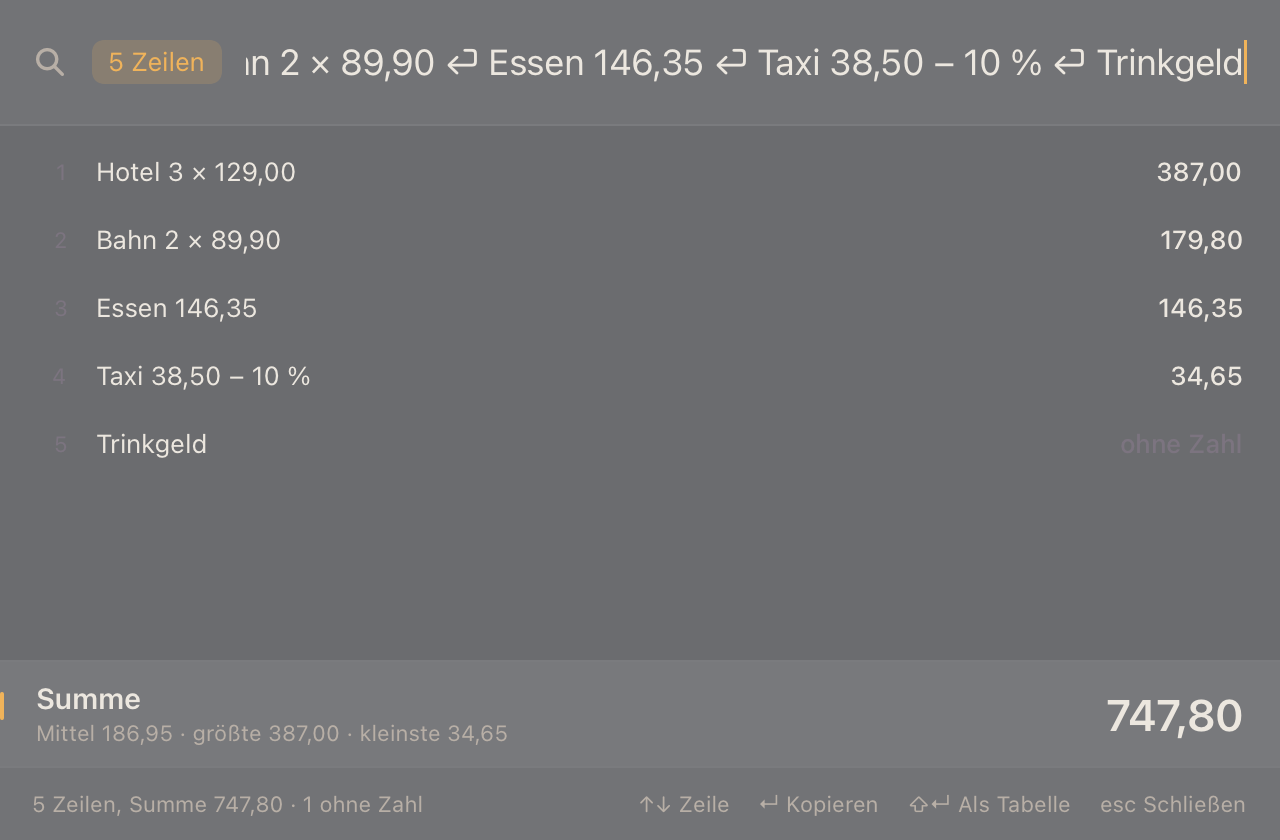
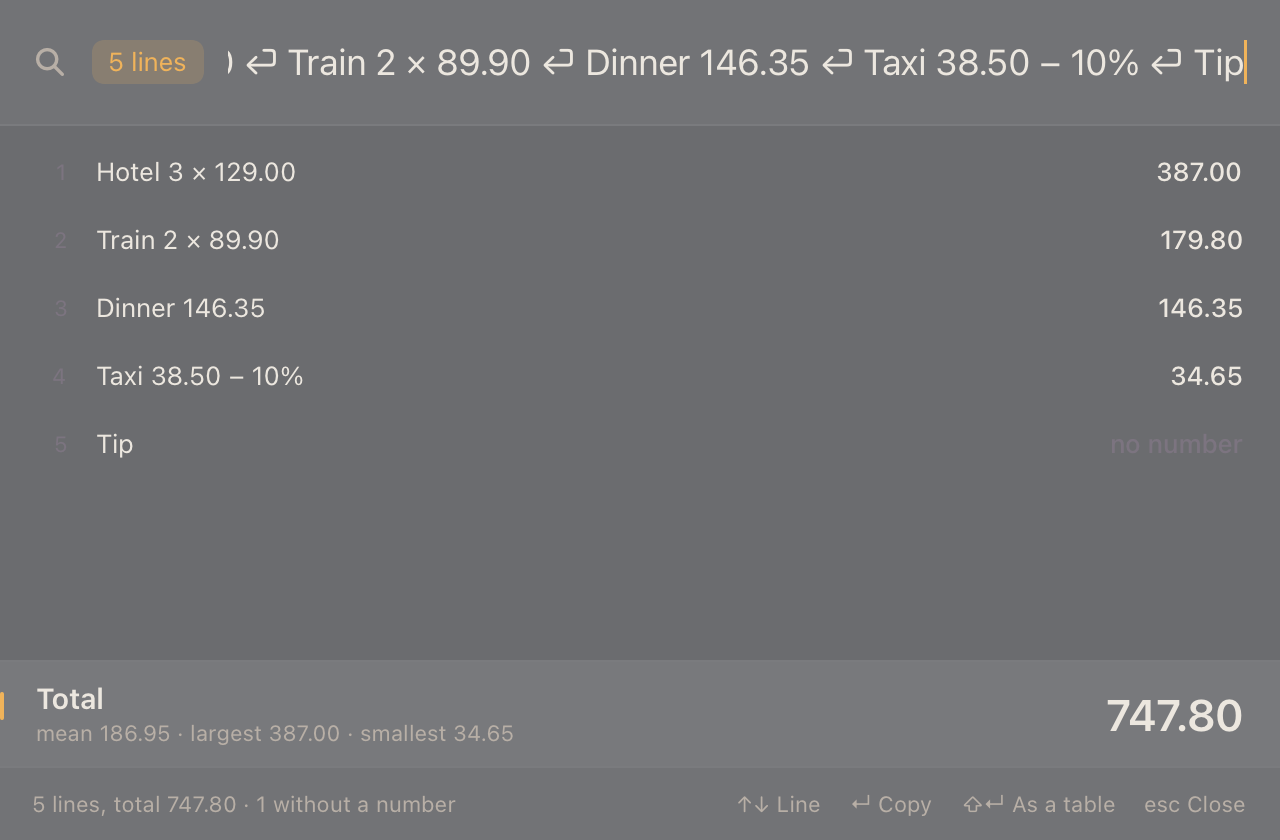
Document English and German, and show the English palette in the README

diff --git a/README.md b/README.md
@@ -7,9 +7,9 @@ display under the pointer. Type a few letters and press Return to open an app,
 calculate a task or insert an emoji. The app you were working in keeps its
 focus, and nothing leaves your Mac.
 
-Zugriff is a single 3.5 MB binary written in Zig 0.17 on
+Zugriff is a single 3.6 MB binary written in Zig 0.17 on
 [nanoui](https://github.com/justrach/nanoui). It runs as a background agent
-without a Dock icon. Its interface is in German.
+without a Dock icon and speaks English and German.
 
 <table>
   <tr>
@@ -32,7 +32,8 @@ translucent, with the desktop blurred behind it.</sub>
 | Opening after the hot key | 11–12 ms (default), about 104 ms with `--unload-mode process` |
 | Memory | 25 MB idle, 48–52 MB while open; 9–10 MB idle with `--unload-mode process` |
 | Start | ready for the hot key about 130 ms after launch |
-| Binary | 3.5 MB, nothing to install besides it |
+| Binary | 3.6 MB, nothing to install besides it |
+| Languages | English and German, following macOS |
 | Network | none: no account, no telemetry |
 
 Details and the measuring method are in [Performance](#performance).
@@ -57,22 +58,27 @@ Details and the measuring method are in [Performance](#performance).
 
 ### Calculate
 
-Type or paste a task. Zugriff reads German and English notation, the operator
-signs that come out of Word, PDFs and web pages, and words such as `mal`,
-`zzgl.` and `von` (`of`).
+Type or paste a task. Zugriff reads English and German notation, the
+operator signs that come out of Word, PDFs and web pages, and words such as
+`times`, `divided by`, `of`, `mal`, `zzgl.` and `von`.
 
 | Task | Result |
 | --- | --- |
-| `(1.299 + 89,90) × 3` | 4.166,70 |
-| `1,299.50 * 2` | 2.599,00 |
-| `80 + 19 %` | 95,2 (as on a pocket calculator) |
-| `19 % von 80` | 15,2 |
-| `Netto 1.299,00 € zzgl. 19 % MwSt.` | 1.545,81 €, and the other readings 246,81 € (the 19 % alone) and ≈ 1.091,60 € (19 % already included) |
-| `2,4 GB in MB` | 2.400 MB, also in MiB and GiB |
-| `100 km/h in m/s` | ≈ 27,78 m/s |
+| `(1,299 + 89.90) × 3` | 4,166.70 |
+| `80 + 19%` | 95.2 (as on a pocket calculator) |
+| `19% of 80` | 15.2 |
+| `Net $1,299.00 plus 19% sales tax` | $1,545.81, and the other readings $246.81 (the 19% alone) and ≈ $1,091.60 (19% already included) |
+| `2.4 GB in MB` | 2,400 MB, also in MiB and GiB |
+| `100 km/h in m/s` | ≈ 27.78 m/s |
+| `2 weeks in days` | 14 days |
 | `20 °C in °F` | 68 °F |
-| `0,1 + 0,2` | 0,3 (exact) |
+| `0.1 + 0.2` | 0.3 (exact) |
 | `tan 45` | 1 (exact) |
+
+The results follow the notation of your region: with a decimal comma,
+`Netto 1.299,00 € zzgl. 19 % MwSt.` gives 1.545,81 €. A number that reads
+both ways, such as `1,250` or `1.250`, is read the way of your region, and the
+other reading is offered below it.
 
 - Units: length, area, volume, mass, time, speed, temperature, angle and data
   (decimal and binary). Convert with `in`.
@@ -91,8 +97,9 @@ signs that come out of Word, PDFs and web pages, and words such as `mal`,
 ### Insert emoji
 
 - All 1,906 emoji of Unicode 16, compiled into the binary.
-- Search in German or English by name, keyword or shortcode: `daumen`,
-  `thumbsup`, `herz`. Umlauts are optional.
+- Search in English or German by name, keyword or shortcode: `heart`,
+  `thumbsup`, `herz`. Names in the palette's language rank first, and the
+  footer names the emoji in it. Umlauts are optional.
 - Open the picker with `⌃⌘Space`, with `:` at the start of a query, or through
   the *Emoji* row.
 - `↵` inserts the emoji into the app in front, `⌘↵` copies it, `⌘1`–`⌘9`
@@ -111,6 +118,18 @@ signs that come out of Word, PDFs and web pages, and words such as `mal`,
 - `?` lists everything the palette understands, each with an example. `↵` puts
   the example into the search field, so you see at once what it does.
 - `help` and `hilfe` find the help row too.
+
+### English and German
+
+- The texts and the emoji names follow the first language in System Settings
+  → General → Language & Region: German for German, English for every other
+  language.
+- The calculator's numbers follow the region: a decimal point means English
+  notation (`1,299.50`), a decimal comma German notation (`1.299,50`). With
+  English as the language and Germany as the region, the palette speaks English
+  and writes `1.299,50`.
+- `--language en` or `--language de` sets both, for `zugriff run` and for
+  every other command.
 
 ### Stays out of the way
 
@@ -188,8 +207,8 @@ for the hot key 125–140 ms after launch.
 The first start of a newly built or copied binary takes about 0.7 s longer
 once: Metal compiles the shaders and caches them for later starts.
 
-**Size:** 3.5 MB for the ReleaseSafe binary (arm64), including the emoji table
-with German and English names.
+**Size:** 3.6 MB for the ReleaseSafe binary (arm64), including the emoji table
+with German and English names and every text in both languages.
 
 ## Install
 
@@ -277,7 +296,8 @@ it again after every build.
 
 ## Command line
 
-The output of the commands is in German.
+The commands answer in the palette's language. Every command takes
+`--language de|en`.
 
 ```text
 zugriff                        Start the palette (⌘Space, ⌃⌘Space)
@@ -314,7 +334,7 @@ Hot keys are written like `cmd+space`, `ctrl+cmd+space`, `alt+space`,
 ```sh
 make hooks-install            # once per clone: the changeset pre-commit hook
 make verify                   # changesets, build, zig fmt, tests (Debug, ReleaseSafe), ziglint
-mise x -- zig build shots     # the palette's states as PNG in zig-out/shots, offscreen
+mise x -- zig build shots     # the palette's states as PNG in zig-out/shots/de and /en, offscreen
 ```
 
 The tests render the palette offscreen with nanoui's `ui.Tester`. They open no
@@ -322,7 +342,7 @@ window, register no hot key and touch neither the clipboard nor the icon cache.
 The real agent takes the global hot keys and can post `⌘V` to other apps, so
 try changes with their own `HOME` or on a separate test Mac.
 
-The pictures in `docs/images` come from `zig build shots`.
+The pictures in `docs/images` come from `zig build shots` (`en`).
 
 The emoji table (`src/core/emoji_data.zig` with its texts in
 `src/core/emoji_strings.txt`) is generated by `scripts/emoji_data.py` from
@@ -336,11 +356,12 @@ Every commit carries a changeset; the flow and releases are in
 ```text
 src/core/        Search, catalog, emoji table and calculator, without platform code
 src/mac/         App discovery, icons, launching, hot keys, panel, inserting (AppKit/Carbon)
-src/ui/          Palette, calculator, emoji and help views on nanoui, theme, emoji pictures
+src/ui/          Palette, calculator, emoji and help views on nanoui, theme, emoji pictures;
+                 texts.zig holds every text of the palette in German and English
 src/agent.zig    Resident agent: window and hot keys first, content in the background
 src/daemon.zig   Daemon for --unload-mode process: hot keys and socket, starts the UI process
 src/control.zig  Unix socket for show, hide, toggle, emoji, status and quit
-src/main.zig     Command line
+src/main.zig     Command line; messages.zig holds its texts in German and English
 src/shots.zig    Offscreen pictures for `zig build shots`
 ```
 
@@ -357,7 +378,8 @@ Rust version:
 - Emoji pictures: nanoui draws text in one colour, so Core Text renders each
   visible emoji once into a colour picture (`src/ui/glyphs.zig`).
 - Emoji with the mouse: right-click and long press open the skin tones.
-- Size: 3.5 MB instead of about 12 MB.
+- Languages: English and German; the Rust version speaks German only.
+- Size: 3.6 MB instead of about 12 MB.
 - Apple Intelligence: `src/mac/intelligence.zig` replaces six private AppKit
   methods with empty ones before the start, and only when their signature is
   the expected one.

diff --git a/PRODUCT.md b/PRODUCT.md
@@ -14,7 +14,7 @@ wrapper, no other platforms.
 ## Users
 
 Keyboard-first people on their own Mac who start many apps a day and want a palette that is
-there the moment they press the hot key. The interface is German.
+there the moment they press the hot key. The interface speaks German and English.
 
 ## Product Purpose
 
@@ -63,6 +63,9 @@ Confirmed:
   copied in between. Without the Accessibility permission, or while secure input is on, Return
   copies only and the footer says so.
 - A help on `?` with one example per topic.
+- German and English: the texts and emoji names follow the first preferred language of macOS
+  (German for German, English for every other language), the calculator's notation follows the
+  region's decimal separator; `--language de|en` sets both.
 - Single instance over a Unix socket (`show`, `hide`, `toggle`, `emoji`, `status`, `quit`);
   headless `apps`, `emojis`, `calc` and `icons` commands.
 - Optional unloading after an idle time: the window only, or the whole UI process behind a small
@@ -93,7 +96,8 @@ Limits:
 
 ## Brand Commitments
 
-- Name: Zugriff, German for *access*. German interface; direct, short wording.
+- Name: Zugriff, German for *access*. German and English interface; direct, short wording in
+  both.
 - A warm dark theme (accent `#f0b35a`, background `#101116`).
 - A calm, native macOS look: no marketing, no telemetry, no decorative animation.
 - Translucent rather than opaque: the desktop stays visible behind the palette as colour and
@@ -115,7 +119,7 @@ Limits:
 - Full keyboard control and a visible selection.
 - High contrast in the dark theme; light mode and a full VoiceOver audit are still open.
 - No animations, so reduced motion holds by default.
-- German interface texts; no state is shown by colour alone.
+- German and English interface texts; no state is shown by colour alone.
 
 ## Decisions and planned work
 
@@ -131,6 +135,8 @@ Confirmed:
 - Calculator: the result card above the hits; Return copies as shown and closes; a reopen shortly
   after shows the calculation again (90 s); the history stays in memory; no exchange rates and no
   inserting into the app in front.
+- Languages: the texts follow the language of macOS and the numbers its region, as other Mac
+  apps do; other languages than German get English. A new text is written in both.
 - Emoji picker: on `⌃⌘Space` and `:`, with skin tones; Return inserts (with the Accessibility
   permission, else copies); the recently used emoji and the skin tone are saved. Emoji next to the
   apps and a picker at the text cursor are deliberately left out.

diff --git a/AGENTS.md b/AGENTS.md
@@ -36,6 +36,16 @@ The palette opens before any content work; this is not negotiable.
 - `src/core/emoji_data.zig` and `src/core/emoji_strings.txt` are generated by
   `scripts/emoji_data.py`; never edit them by hand.
 
+## Texts
+
+- Every text the palette shows is in `src/ui/texts.zig`, every text of the command line and the
+  control socket in `src/messages.zig`, each in German and English. A new text gets both; never
+  write a German or English literal into a view. Log lines are not texts and stay as they are.
+- `src/ui/tests_language.zig` renders the English palette and fails on German words; extend it
+  with every new state.
+- Texts follow the language of macOS, the calculator's numbers its region (`core.Locale`); do not
+  tie number notation to the language.
+
 ## Changesets and releases
 
 - Read `CONTRIBUTING.md` before committing. Every commit adds a new changeset in `.changeset/`

diff --git a/.changeset/20261122-230224-empty.md b/.changeset/20261122-230224-empty.md
@@ -1,0 +1,2 @@
+---
+---
